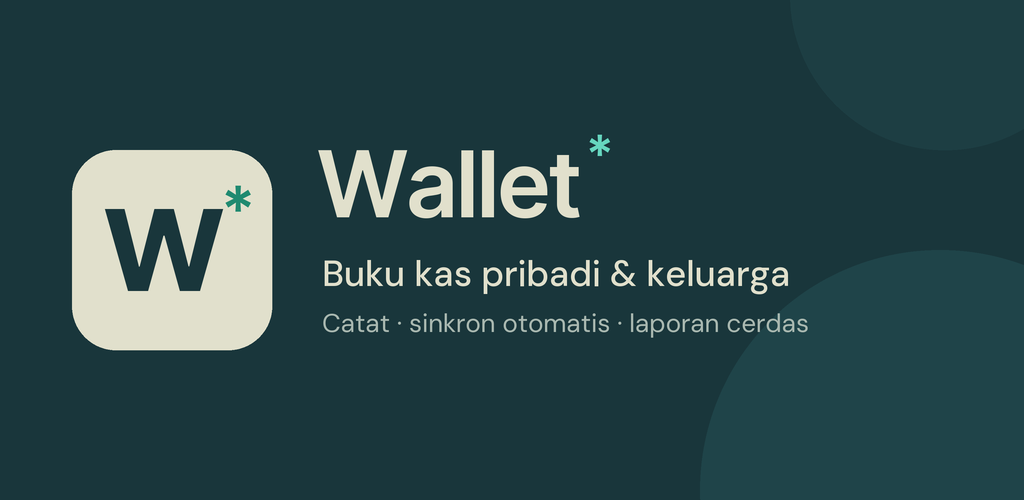
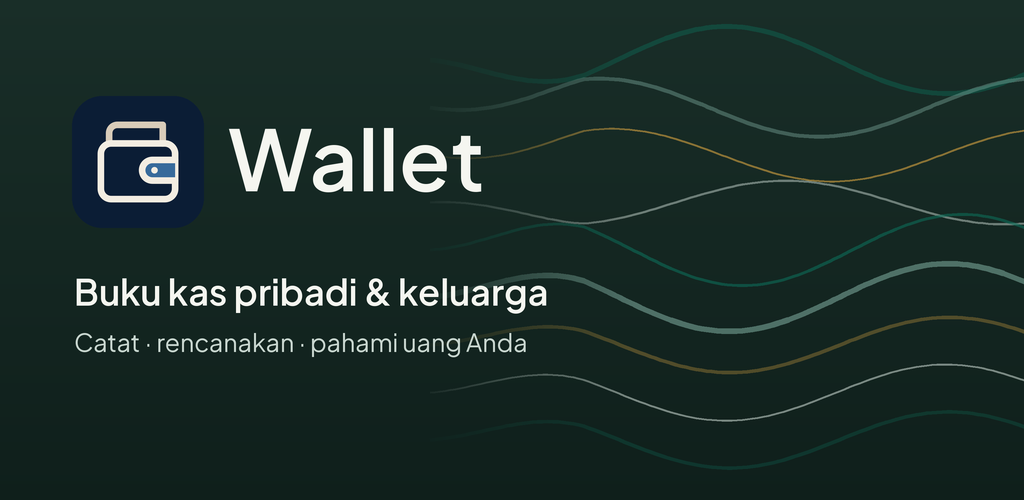
[web-only] Retry the deploy check and refresh the Play Store assets
The post-deploy check read the release marker once, ten seconds after the
upload, and failed when Cloudflare was still serving the previous build;
it now polls for up to two minutes. Play listing images, the feature
graphic and the description are regenerated from the demo build of 1.5.0,
with a guide to which file goes where and how to supply the video.

Claude-Session: https://claude.ai/code/session_019XaEC6mbS4KYaVheLanTV9

diff --git a/tool/store_listing.py b/tool/store_listing.py
@@ -1,7 +1,7 @@
 """Google Play listing images: app screens in a phone frame with a headline.
 
 Two sets are written:
-- listing-*.png: dark brand-green backdrop, 6 slides;
+- listing-*.png: dark brand-green backdrop, 8 slides;
 - store-*.png: the "long" light set in the style of the big finance apps —
   an intro slide (logo + tilted phone), a trust slide, then feature slides.
 
@@ -31,11 +31,13 @@ SCALE = 1080 / W          # -> 1080 x 2160 captures
 # (file, headline, subline). Headlines stay short: they're read at thumbnail size.
 SLIDES = [
     ('beranda', 'Semua uang keluarga,\nsatu tempat', 'Saldo, pemasukan & anggaran bulan ini\nsekali lihat'),
-    ('kartu', 'Kartu rekening\nala dompet', 'Ketuk atau geser untuk berganti rekening'),
+    ('rencana', 'Lihat ke mana\nuang mengalir', 'Gaji, langganan, tabungan & dana bergulir\ndalam satu arus'),
+    ('rencana-pos', 'Rencana bertemu\nkenyataan', 'Tautkan pos ke kategori: pengeluaran\ntercatat tampil di sampingnya'),
+    ('kalender', 'Tahu sebelum\njatuh tempo', 'Tagihan, utang & kartu dalam satu kalender,\ndengan pengingat sehari sebelumnya'),
+    ('akun', 'Bank, dompet digital,\ndolar & emas', 'Semua saldo dalam kelompoknya,\ndengan nilai hari ini'),
     ('catat', 'Catat dalam\nhitungan detik', 'Titik ribuan otomatis, tombol cepat\n& kalkulator bawaan'),
-    ('akun', 'Dolar & emas,\nnilai hari ini', 'Kurs dunia dan harga Antam per gram,\ndiperbarui otomatis'),
     ('laporan', 'Laporan yang\nmudah dipahami', 'Ke mana uang pergi, dan apa\nlangkah berikutnya'),
-    ('kategori', 'Rapi sesuai\ncara Anda', 'Kategori & kelompok akun\nbisa diubah sesukanya'),
+    ('target', 'Wujudkan target\ntabungan', 'Dana darurat, umroh, sekolah anak —\npantau progresnya'),
 ]
 
 
@@ -48,16 +50,22 @@ def capture(root):
     os.makedirs(RAW, exist_ok=True)
 
     with sync_playwright() as p:
-        browser = p.chromium.launch()
+        # WALLET_CHROMIUM points at an already-installed browser when the one
+        # Playwright would download is unavailable.
+        browser = p.chromium.launch(executable_path=os.environ.get('WALLET_CHROMIUM') or None)
         ctx = browser.new_context(viewport={'width': W, 'height': H}, device_scale_factor=SCALE,
                                   color_scheme='light', locale='id-ID')
         page = ctx.new_page()
 
         def tap(label):
             box = page.evaluate("""(label) => {
-                const el = [...document.querySelectorAll('[role="button"], [role="tab"]')]
-                    .find(e => (e.innerText || e.getAttribute('aria-label') || '').trim().startsWith(label));
-                if (!el) return null;
+                const text = (e) => (e.getAttribute('aria-label') || e.innerText || '').trim();
+                const hits = [...document.querySelectorAll('[role="button"], [role="tab"], flt-semantics')]
+                    .filter(e => text(e).startsWith(label));
+                if (!hits.length) return null;
+                // The innermost match: a wrapper also starts with the label.
+                const area = (e) => { const r = e.getBoundingClientRect(); return r.width * r.height; };
+                const el = hits.sort((a, b) => area(a) - area(b))[0];
                 const r = el.getBoundingClientRect();
                 return {x: r.x + r.width / 2, y: r.y + r.height / 2};
             }""", label)
@@ -122,6 +130,33 @@ def capture(root):
         tap('Target')
         save('target')
 
+        # The demo build opens an illustrative in-memory plan (DemoPlanService).
+        tap('Lainnya')
+        tap('Rencana Bulanan')
+        page.wait_for_timeout(2500)
+        def scroll(by):
+            # save() parks the pointer in a corner; the wheel only scrolls
+            # the list when the pointer is back over it.
+            page.mouse.move(W / 2, H / 2)
+            page.wait_for_timeout(300)
+            for _ in range(abs(by) // 200):
+                page.mouse.wheel(0, 200 if by > 0 else -200)
+                page.wait_for_timeout(120)
+            page.wait_for_timeout(1200)
+
+        # Flutter smooths wheel input, so each step moves the list by a
+        # fraction of its delta; these totals land on the flow card and on
+        # the linked item in the demo plan.
+        scroll(4200)
+        save('rencana')
+        scroll(6400)
+        save('rencana-pos')
+
+        tap('Lainnya')
+        tap('Transaksi Berulang')
+        page.wait_for_timeout(1500)
+        save('kalender')
+
         ctx.close()
         browser.close()
     server.shutdown()
@@ -130,8 +165,9 @@ def capture(root):
 # ---------------------------------------------------------------- compose
 
 CW, CH = 1080, 1920
-FOREST_TOP = (27, 58, 62)
-FOREST_BOTTOM = (13, 32, 35)
+# Ink of the Wallet / ARUS refresh (#192E28), darkening downwards.
+FOREST_TOP = (25, 46, 40)
+FOREST_BOTTOM = (12, 24, 21)
 CREAM = (236, 235, 221)
 MINT = (127, 200, 162)
 
@@ -150,7 +186,7 @@ def backdrop():
     glow = Image.new('L', (CW, CH), 0)
     ImageDraw.Draw(glow).ellipse([CW * 0.1, CH * 0.38, CW * 0.9, CH * 1.05], fill=70)
     glow = glow.filter(ImageFilter.GaussianBlur(160))
-    img.paste(Image.new('RGB', (CW, CH), (60, 120, 110)), mask=glow)
+    img.paste(Image.new('RGB', (CW, CH), (12, 108, 88)), mask=glow)
     return img
 
 
@@ -218,12 +254,12 @@ BG_BOTTOM = (221, 229, 224)
 LIGHT_SLIDES = [
     ('intro', 'beranda', None, None),
     ('trust', 'kartu', 'Tanpa iklan,\ntanpa jual data', None),
+    ('feature', 'rencana', 'Lihat ke mana\nuang mengalir', 'Gaji, langganan, tabungan & dana\nbergulir dalam satu arus'),
+    ('feature', 'kalender', 'Tahu sebelum\njatuh tempo', 'Tagihan, utang & kartu\ndalam satu kalender'),
+    ('feature', 'akun', 'Bank, dompet digital,\ndolar & emas', 'Semua saldo dalam kelompoknya,\ndengan nilai hari ini'),
     ('feature', 'catat', 'Catat dalam\nhitungan detik', 'Titik ribuan otomatis, tombol cepat\n& kalkulator bawaan'),
-    ('feature', 'akun', 'Dolar & emas,\nnilai hari ini', 'Kurs dunia & harga Antam per gram,\ndiperbarui otomatis'),
-    ('feature', 'anggaran', 'Atur anggaran,\ntanpa kaget', 'Peringatan dini sebelum\npengeluaran melewati batas'),
     ('feature', 'laporan', 'Laporan yang\nmudah dipahami', 'Ke mana uang pergi, dan apa\nlangkah berikutnya'),
     ('feature', 'keluarga', 'Satu buku kas\nuntuk seisi rumah', 'Undang keluarga dengan kode,\ncatat bersama secara langsung'),
-    ('feature', 'target', 'Wujudkan target\ntabungan', 'Dana darurat, umroh, sekolah anak —\npantau progresnya'),
 ]
 
 

diff --git a/tool/make_feature_graphic.py b/tool/make_feature_graphic.py
@@ -1,40 +1,73 @@
-"""Google Play feature graphic (1024x500) in the Wallet mark's colours.
+"""Google Play feature graphic (1024x500) in the Wallet / ARUS colours.
 
     python tool/make_feature_graphic.py  ->  docs/play-store/feature-graphic.png
+
+Uses the app icon already exported to docs/play-store/icon-512.png and the
+bundled Plus Jakarta Sans, so the graphic cannot drift from the product.
 """
+import math
+
 from PIL import Image, ImageDraw, ImageFont
 
 W, H, SS = 1024, 500, 3
-BG = (0x19, 0x36, 0x3B)
-INK = (0xE1, 0xE0, 0xCC)
-ACCENT = (0x66, 0xD6, 0xBF)
-MUTED = (0xA9, 0xB8, 0xB0)
-F = 'assets/google_fonts/'
+INK = (0x19, 0x2E, 0x28)
+DEEP = (0x0F, 0x1F, 0x1B)
+PAPER = (0xF5, 0xF6, 0xF0)
+MIST = (0xC8, 0xD6, 0xCF)
+SAGE = (0x86, 0xB6, 0xA9)
+CURRENTS = [(0x0C, 0x6C, 0x58), SAGE, (0xD9, 0xA4, 0x41), MIST]
+F = 'assets/brand_fonts/PlusJakartaSans-'
 
-im = Image.new('RGB', (W * SS, H * SS), BG)
-d = ImageDraw.Draw(im)
 s = lambda v: int(v * SS)
+im = Image.new('RGB', (W * SS, H * SS), INK)
+d = ImageDraw.Draw(im)
 
-# Soft accent circle, bottom right.
-d.ellipse([s(700), s(250), s(1180), s(730)], fill=(0x1F, 0x44, 0x49))
-d.ellipse([s(790), s(-160), s(1100), s(150)], fill=(0x1D, 0x3E, 0x43))
+# Vertical ink gradient.
+for y in range(H * SS):
+    t = y / (H * SS)
+    d.line([(0, y), (W * SS, y)], fill=tuple(round(a + (b - a) * t) for a, b in zip(INK, DEEP)))
 
-# Mark tile.
-d.rounded_rectangle([s(72), s(150), s(272), s(350)], radius=s(44), fill=INK)
-mark = ImageFont.truetype(F + 'InterTight-SemiBold.ttf', s(150))
-bb = d.textbbox((0, 0), 'w', font=mark)
-d.text((s(172) - (bb[2] - bb[0]) / 2 - bb[0] - s(8), s(250) - (bb[3] - bb[1]) / 2 - bb[1]), 'w', font=mark, fill=BG)
-star = ImageFont.truetype(F + 'InterTight-SemiBold.ttf', s(64))
-d.text((s(222), s(170)), '*', font=star, fill=(0x1F, 0x8A, 0x70))
+# Drifting currents on the right: the same motif as the welcome loop.
+for k in range(9):
+    r = lambda n: (math.sin((k + 1) * 12.9898 + n * 78.233) * 43758.5453) % 1
+    base, amp = 0.12 + k * 0.095, 0.03 + r(1) * 0.05
+    pts = []
+    for i in range(121):
+        x = 0.42 + 0.6 * i / 120
+        y = base + amp * math.sin(2 * math.pi * (1.4 * i / 120 + r(2))) * min(1, i / 30)
+        pts.append((s(x * W), s(y * H)))
+    colour = CURRENTS[k % len(CURRENTS)]
+    # Each current on its own layer: drawn translucent directly, the joints
+    # between segments overlap and read as dots.
+    layer = Image.new('L', im.size, 0)
+    ImageDraw.Draw(layer).line(pts, fill=round(70 + r(3) * 90), width=s(2 + r(4) * 4), joint='curve')
+    im.paste(Image.new('RGB', im.size, colour), mask=layer)
 
-title = ImageFont.truetype(F + 'InterTight-SemiBold.ttf', s(92))
-d.text((s(318), s(128)), 'Wallet', font=title, fill=INK)
-d.text((s(318) + d.textlength('Wallet', font=title) + s(6), s(122)), '*', font=ImageFont.truetype(F + 'InterTight-SemiBold.ttf', s(52)), fill=ACCENT)
+# Fade the currents out towards the text.
+fade = Image.new('L', (W * SS, H * SS), 0)
+fd = ImageDraw.Draw(fade)
+for x in range(W * SS):
+    t = max(0.0, min(1.0, (x / (W * SS) - 0.40) / 0.22))
+    fd.line([(x, 0), (x, H * SS)], fill=round(255 * (1 - t)))
+flat = Image.new('RGB', im.size, INK)
+fl = ImageDraw.Draw(flat)
+for y in range(H * SS):
+    t = y / (H * SS)
+    fl.line([(0, y), (W * SS, y)], fill=tuple(round(a + (b - a) * t) for a, b in zip(INK, DEEP)))
+im.paste(flat, mask=fade)
+d = ImageDraw.Draw(im)
 
-sub = ImageFont.truetype(F + 'DMSans-Medium.ttf', s(36))
-d.text((s(322), s(250)), 'Buku kas pribadi & keluarga', font=sub, fill=INK)
-small = ImageFont.truetype(F + 'DMSans-Regular.ttf', s(26))
-d.text((s(322), s(306)), 'Catat · sinkron otomatis · laporan cerdas', font=small, fill=MUTED)
+icon = Image.open('docs/play-store/icon-512.png').convert('RGBA').resize((s(132), s(132)), Image.LANCZOS)
+mask = Image.new('L', icon.size, 0)
+ImageDraw.Draw(mask).rounded_rectangle([0, 0, icon.size[0] - 1, icon.size[1] - 1], s(30), fill=255)
+im.paste(icon, (s(72), s(96)), mask)
+
+title = ImageFont.truetype(F + 'SemiBold.ttf', s(84))
+d.text((s(228), s(104)), 'Wallet', font=title, fill=PAPER)
+sub = ImageFont.truetype(F + 'SemiBold.ttf', s(36))
+d.text((s(74), s(268)), 'Buku kas pribadi & keluarga', font=sub, fill=PAPER)
+small = ImageFont.truetype(F + 'Regular.ttf', s(25))
+d.text((s(74), s(326)), 'Catat · rencanakan · pahami uang Anda', font=small, fill=MIST)
 
 im.resize((W, H), Image.LANCZOS).save('docs/play-store/feature-graphic.png', optimize=True)
 print('docs/play-store/feature-graphic.png')

diff --git a/docs/play-store/README.md b/docs/play-store/README.md
@@ -1,0 +1,68 @@
+# Bahan halaman Google Play
+
+Semua bahan di folder ini dibuat dari **build demo** (data tiruan, bukan data
+pribadi) dan siap diunggah ke Play Console › *Grow* › *Store presence* ›
+*Main store listing*. Diperbarui 13 November 2026 untuk versi 1.5.0.
+
+## Berkas mana untuk kolom mana
+
+| Kolom di Play Console | Berkas | Ukuran | Syarat Play |
+|---|---|---|---|
+| Ikon aplikasi | `icon-512.png` | 512×512 | PNG 32-bit, maks. 1 MB |
+| Grafik fitur | `feature-graphic.png` | 1024×500 | PNG/JPEG tanpa alfa |
+| Screenshot ponsel | `listing-1…8-*.png` | 1080×1920 (9:16) | 2–8 gambar, sisi 320–3840 px, PNG/JPEG tanpa alfa |
+| Video | tautan YouTube dari `web/media/playstore.mp4` | 1920×1080, 29 detik | Lihat di bawah |
+| Deskripsi singkat | `short-description-id-ID.txt` | ≤ 80 karakter | |
+| Deskripsi lengkap | `description-id-ID.txt` | ≤ 4.000 karakter | |
+| Yang baru di rilis ini | `whatsnew-id-ID.txt` | ≤ 500 karakter | Diisi saat membuat rilis |
+
+Urutan screenshot yang disarankan mengikuti nomornya: Beranda, Rencana
+Bulanan, rencana dan buku kas, kalender tagihan, akun, catat, laporan, target.
+
+`store-1…8-*.png` adalah set cadangan bergaya terang (pembuka berlogo, slide
+kepercayaan, lalu fitur). Pakai salah satu set, jangan dicampur.
+`screenshot-*.png` adalah tangkapan polos lama dari sebelum penyegaran
+tampilan; jangan dipakai untuk halaman toko versi ini.
+
+## Video
+
+Play Console tidak menerima berkas video; kolom *Video* hanya menerima
+**URL YouTube**. Langkahnya:
+
+1. Unggah `web/media/playstore.mp4` ke kanal YouTube pemilik aplikasi.
+2. Visibilitas **Publik** atau **Tidak publik** (*unlisted*). Jangan *Pribadi*.
+3. Matikan monetisasi/iklan pada video itu dan jangan beri batasan usia;
+   video beriklan atau berbatas usia ditolak Play.
+4. Tempel URL-nya di kolom *Video*, lalu simpan.
+
+Judul dan deskripsi YouTube yang bisa dipakai:
+
+> **Wallet — Buku Kas Pribadi & Keluarga**
+>
+> Catat pemasukan dan pengeluaran, rencanakan gaji bulanan, pantau tagihan
+> jatuh tempo, dan lihat semua saldo bank serta dompet digital di satu
+> tempat. Tanpa iklan. https://wallet.irsyads.com
+
+Video itu berupa gambar gerak dari desain aplikasi dengan angka tiruan, bukan
+rekaman layar. Play mengizinkannya, tetapi video harus menggambarkan aplikasi
+apa adanya; perbarui bila tampilan berubah banyak. `web/media/tur.mp4`
+(potret) cocok untuk media sosial, bukan untuk kolom ini.
+
+## Membuat ulang
+
+```bash
+flutter build web --release --no-web-resources-cdn --dart-define=WALLET_DEMO=true -o build/demo-web
+```
+
+```bash
+python tool/store_listing.py build/demo-web
+```
+
+```bash
+python tool/make_feature_graphic.py
+```
+
+`store_listing.py` memerlukan `pip install playwright pillow`. Bila peramban
+Playwright tidak bisa diunduh, arahkan ke Chromium yang sudah terpasang lewat
+variabel `WALLET_CHROMIUM`. Video dirender dari `motion/` (lihat
+`motion/README.md`).

diff --git a/docs/PLAY_STORE.md b/docs/PLAY_STORE.md
@@ -2,6 +2,8 @@
 
 > Pembaruan 22 Oktober: baca [rekonsiliasi kunci/Console](2026-10-22_SIGNING_CONSOLE_RECONCILIATION.md). Kunci upload Play/cadangan/APK GitHub cocok; app signing Google berbeda. Wallet sudah memiliki akun developer dan berada di pengujian tertutup. Nomor run bukan lagi satu-satunya rumus versionCode; versi source/web/APK berbeda. Bagian bertanggal September di bawah adalah riwayat, bukan status atau izin menjalankan rilis saat ini. Tidak membuat akun/service account/kunci baru atau membayar biaya dari dokumen lama ini.
 
+> Pembaruan 13 November 2026: gambar toko, grafik fitur, deskripsi, dan panduan video untuk versi 1.5.0 ada di [`docs/play-store/README.md`](play-store/README.md). Daftar berkas di bagian bawah dokumen ini adalah riwayat.
+
 Status per 25 September 2026. Paket aplikasi: **`com.irsyads.wallet`**.
 
 ## 0. Sudah disiapkan (tanpa akun developer)
